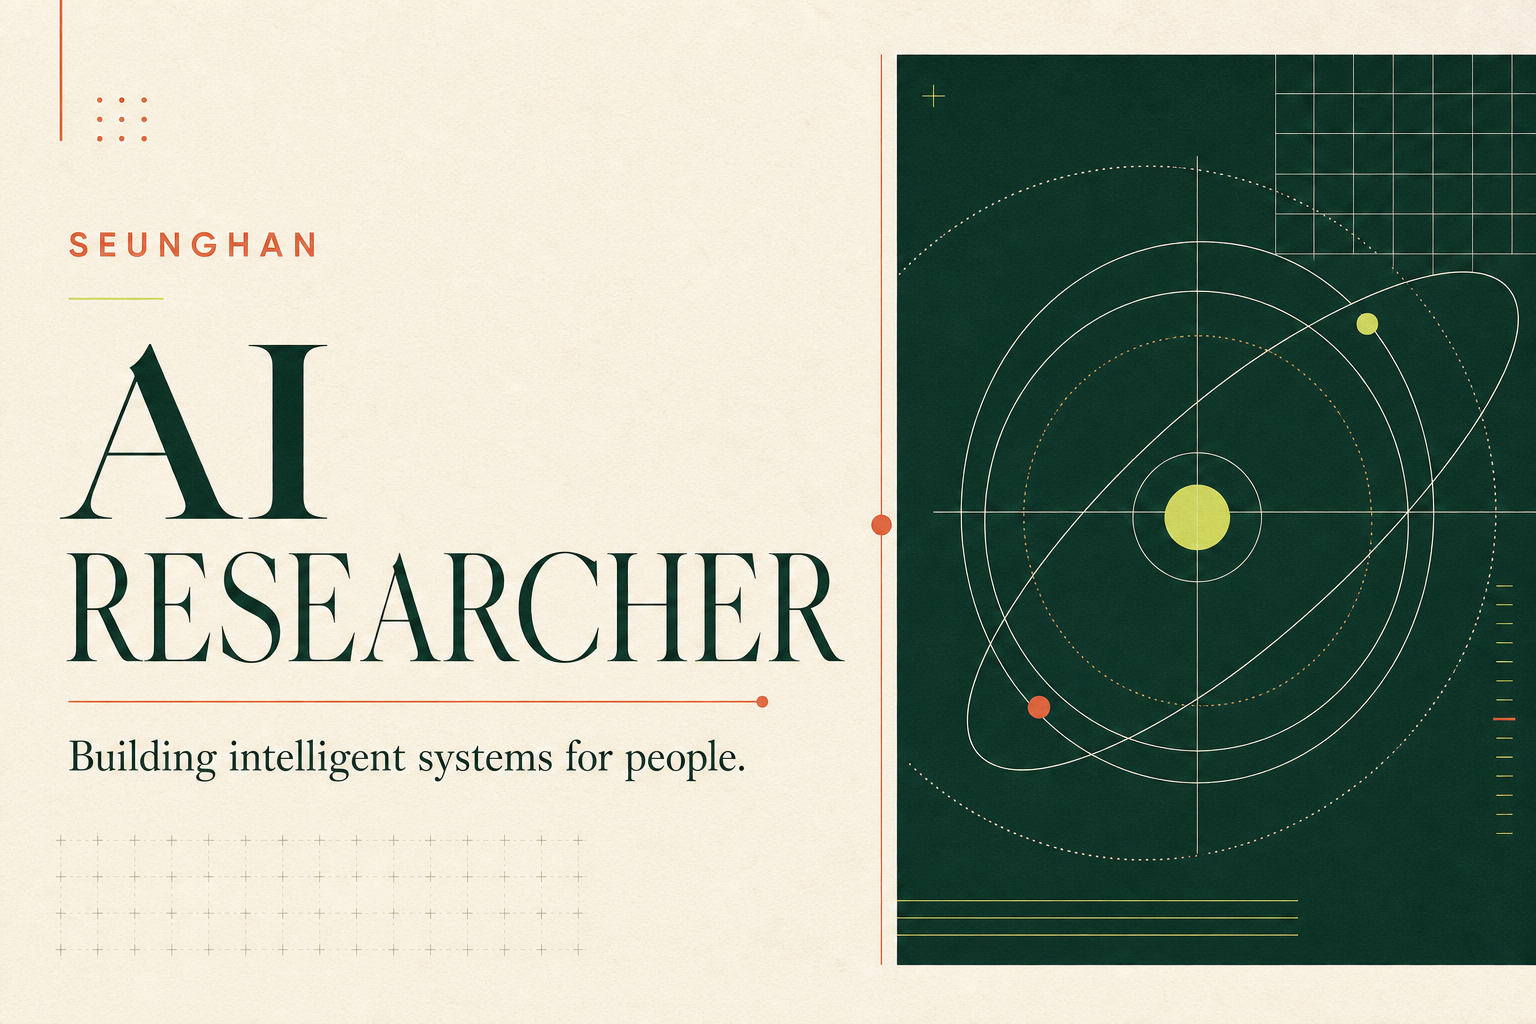
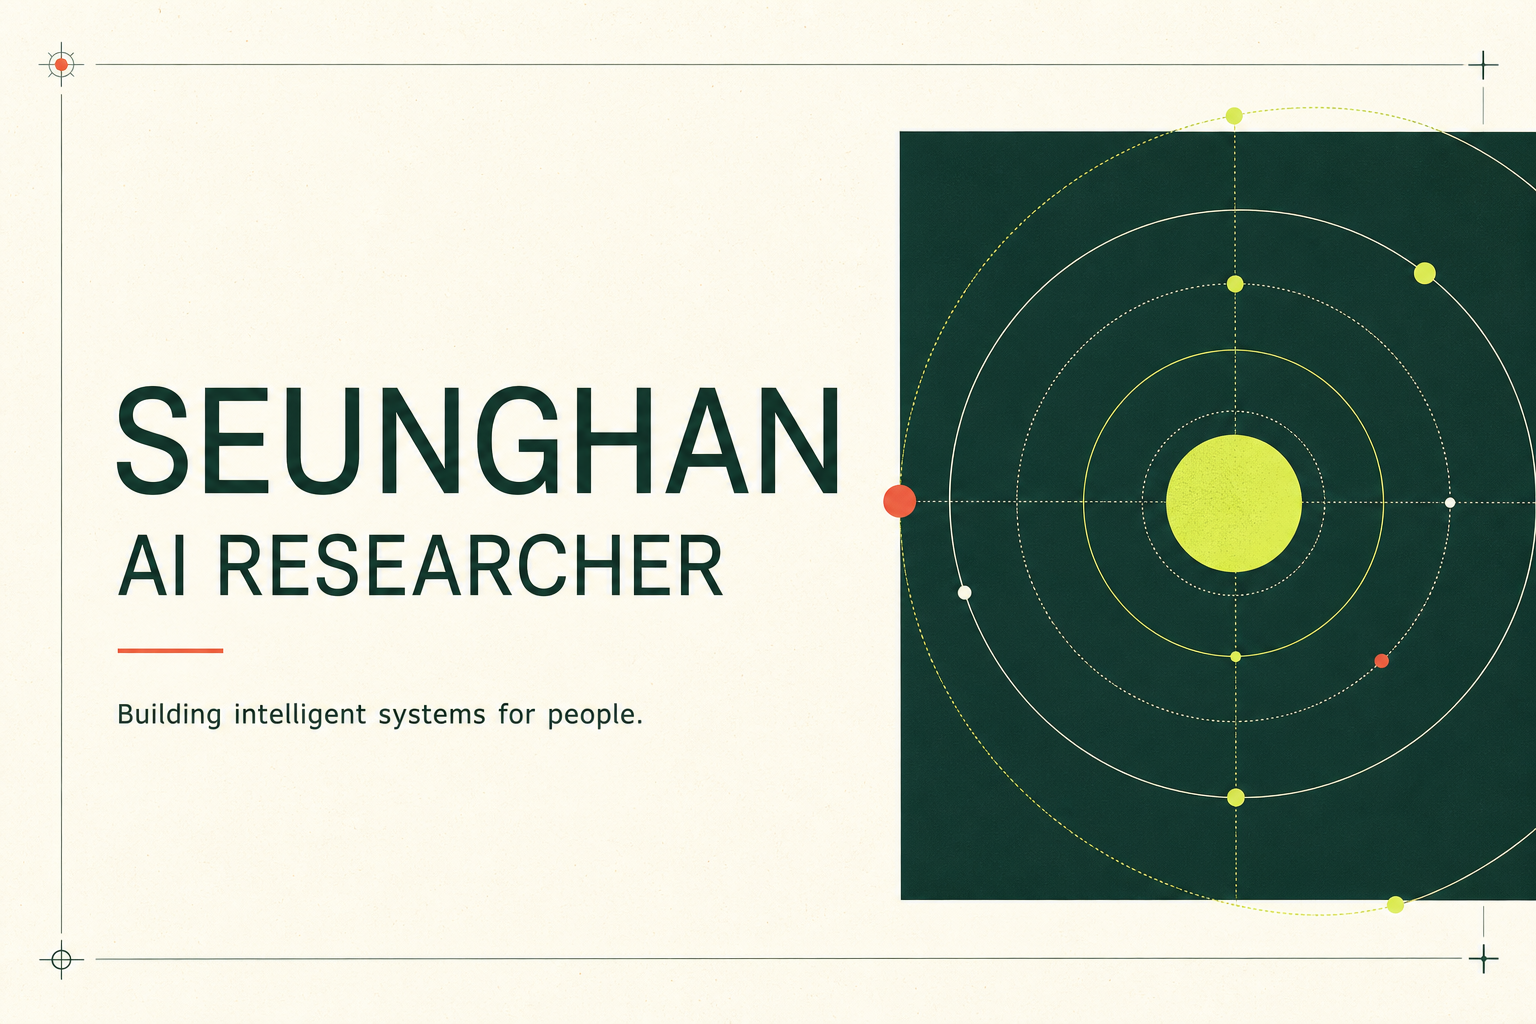
Refresh typography and English content

diff --git a/app/globals.css b/app/globals.css
@@ -1,11 +1,11 @@
 @import "tailwindcss";
 
 :root {
-  --ivory: #f3efe5;
-  --paper: #faf7ef;
+  --ivory: #fbf8ef;
+  --paper: #fffdf7;
   --ink: #18382f;
   --muted: #68766f;
-  --line: #cbc9bb;
+  --line: #d8d5c9;
   --accent: #d86545;
   --acid: #d9e86f;
 }
@@ -16,7 +16,7 @@ body {
   margin: 0;
   background: var(--ivory);
   color: var(--ink);
-  font-family: Arial, "Apple SD Gothic Neo", "Noto Sans KR", sans-serif;
+  font-family: "Gulim", "굴림", Arial, sans-serif;
   -webkit-font-smoothing: antialiased;
 }
 a { color: inherit; text-decoration: none; }
@@ -31,7 +31,7 @@ main { overflow: hidden; }
   justify-content: space-between;
   border-bottom: 1px solid var(--line);
 }
-.wordmark { font: 700 28px/1 Georgia, serif; letter-spacing: -2px; }
+.wordmark { font: 700 28px/1 "Gulim", "굴림", Arial, sans-serif; letter-spacing: -2px; }
 .wordmark span { color: var(--accent); }
 nav { display: flex; align-items: center; gap: 32px; font-size: 13px; font-weight: 700; letter-spacing: .04em; }
 nav a { transition: opacity .2s ease; }
@@ -53,7 +53,7 @@ nav a:hover { opacity: .55; }
 .eyebrow span { width: 8px; height: 8px; border-radius: 50%; background: var(--accent); }
 .hero h1, .section h2, footer h2 {
   margin: 0;
-  font-family: Georgia, "Times New Roman", serif;
+  font-family: "Gulim", "굴림", Arial, sans-serif;
   font-weight: 400;
   letter-spacing: -.055em;
 }
@@ -72,12 +72,12 @@ nav a:hover { opacity: .55; }
 .orbit { position: absolute; border: 1px solid rgba(243,239,229,.3); border-radius: 50%; transform: rotate(-18deg); }
 .orbit-one { width: 100%; height: 48%; }
 .orbit-two { width: 55%; height: 100%; transform: rotate(43deg); }
-.orbit-core { display: grid; place-items: center; width: 78px; height: 78px; border-radius: 50%; background: var(--acid); color: var(--ink); font: italic 700 28px Georgia, serif; box-shadow: 0 0 0 20px rgba(217,232,111,.07); }
+.orbit-core { display: grid; place-items: center; width: 78px; height: 78px; border-radius: 50%; background: var(--acid); color: var(--ink); font: 700 28px "Gulim", "굴림", Arial, sans-serif; box-shadow: 0 0 0 20px rgba(217,232,111,.07); }
 .status-pill { align-self: flex-start; border: 1px solid rgba(255,255,255,.25); padding: 9px 12px; border-radius: 99px; color: #d9dedb; font-size: 10px; letter-spacing: .08em; text-transform: uppercase; }
 .status-pill span { display: inline-block; width: 6px; height: 6px; margin-right: 7px; border-radius: 50%; background: var(--acid); }
 .panel-stats { display: grid; grid-template-columns: 1fr 1fr; border-top: 1px solid rgba(255,255,255,.2); padding-top: 20px; }
 .panel-stats div { display: flex; flex-direction: column; gap: 5px; }
-.panel-stats strong { font: 32px Georgia, serif; }
+.panel-stats strong { font: 32px "Gulim", "굴림", Arial, sans-serif; }
 .panel-stats span { color: #aeb9b4; font-size: 10px; text-transform: uppercase; letter-spacing: .1em; }
 
 .ticker { min-width: max-content; padding: 18px 0; background: var(--accent); color: var(--paper); display: flex; justify-content: center; align-items: center; gap: 26px; text-transform: uppercase; font-size: 10px; font-weight: 800; letter-spacing: .16em; }
@@ -97,12 +97,12 @@ nav a:hover { opacity: .55; }
 .demo-visual::after { width: 380px; height: 150px; transform: rotate(35deg); border-color: rgba(216,101,69,.75); }
 .demo-message { position: relative; z-index: 2; text-align: center; }
 .play-mark { width: 80px; height: 80px; margin: 0 auto 20px; border-radius: 50%; background: var(--acid); color: var(--ink); display: grid; place-items: center; padding-left: 4px; font-size: 20px; box-shadow: 0 0 0 12px rgba(217,232,111,.1); }
-.demo-message p { margin: 0 0 7px; font: 22px Georgia, serif; letter-spacing: .06em; }
+.demo-message p { margin: 0 0 7px; font: 22px "Gulim", "굴림", Arial, sans-serif; letter-spacing: .06em; }
 .demo-message small { color: #c2cec9; font-size: 11px; }
 .demo-duration { position: absolute; z-index: 2; right: 18px; bottom: 16px; font-size: 9px; letter-spacing: .12em; }
 .work-copy { padding: 52px 44px; display: flex; flex-direction: column; }
 .work-number { margin: 0 0 auto; color: var(--acid); font-size: 9px; font-weight: 700; letter-spacing: .16em; }
-.work-copy h3 { margin: 28px 0 22px; font: 400 clamp(38px, 3.2vw, 55px)/1.02 Georgia, serif; letter-spacing: -.04em; }
+.work-copy h3 { margin: 28px 0 22px; font: 400 clamp(38px, 3.2vw, 55px)/1.02 "Gulim", "굴림", Arial, sans-serif; letter-spacing: -.04em; }
 .work-copy > p:not(.work-number) { color: #b8c2bd; font-size: 13px; line-height: 1.8; word-break: keep-all; }
 .tag-row { display: flex; gap: 7px; margin: 20px 0 34px; }
 .tag-row span { border: 1px solid #597067; padding: 6px 9px; border-radius: 50px; color: #c9d2ce; font-size: 9px; }
@@ -110,9 +110,9 @@ nav a:hover { opacity: .55; }
 .project-grid { display: grid; grid-template-columns: 1fr 1fr 1fr; border: 1px solid var(--line); border-top: 0; }
 .project-grid article { min-height: 260px; padding: 28px; border-right: 1px solid var(--line); display: flex; flex-direction: column; }
 .project-grid article:last-child { border: 0; }
-.project-grid article > span { font: italic 21px Georgia, serif; color: var(--accent); }
+.project-grid article > span { font: 21px "Gulim", "굴림", Arial, sans-serif; color: var(--accent); }
 .project-grid article > p { margin: auto 0 10px; text-transform: uppercase; font-size: 9px; font-weight: 800; letter-spacing: .13em; color: var(--muted); }
-.project-grid h3 { margin: 0 0 12px; max-width: 300px; font: 400 28px/1.1 Georgia, serif; letter-spacing: -.03em; }
+.project-grid h3 { margin: 0 0 12px; max-width: 300px; font: 400 28px/1.1 "Gulim", "굴림", Arial, sans-serif; letter-spacing: -.03em; }
 .project-grid small { color: var(--muted); }
 .project-more { background: var(--paper); justify-content: space-between; }
 .project-more h3 { margin: auto 0 0; }
@@ -122,8 +122,8 @@ nav a:hover { opacity: .55; }
 .areas-layout > h2 { font-size: clamp(58px, 6vw, 92px); line-height: .95; }
 .area-list article { display: grid; grid-template-columns: 70px 1fr; gap: 30px; border-top: 1px solid var(--line); padding: 30px 0 36px; }
 .area-list article:last-child { border-bottom: 1px solid var(--line); }
-.area-list > article > span { color: var(--accent); font: italic 18px Georgia, serif; }
-.area-list h3 { margin: 0 0 10px; font: 400 31px Georgia, serif; }
+.area-list > article > span { color: var(--accent); font: 18px "Gulim", "굴림", Arial, sans-serif; }
+.area-list h3 { margin: 0 0 10px; font: 400 31px "Gulim", "굴림", Arial, sans-serif; }
 .area-list p { max-width: 520px; margin: 0; color: var(--muted); font-size: 13px; line-height: 1.75; word-break: keep-all; }
 
 .publications { border-top: 1px solid var(--line); }
@@ -131,13 +131,13 @@ nav a:hover { opacity: .55; }
 .publication-list { border-top: 1px solid var(--ink); }
 .publication-list article { display: grid; grid-template-columns: 90px 1fr 40px; gap: 26px; padding: 29px 12px; border-bottom: 1px solid var(--line); align-items: center; transition: background .2s ease, padding .2s ease; }
 .publication-list article:hover { background: var(--paper); padding-left: 22px; }
-.paper-year { font: italic 17px Georgia, serif; color: var(--accent); }
-.publication-list h3 { margin: 0 0 8px; font: 400 25px/1.2 Georgia, serif; }
+.paper-year { font: 17px "Gulim", "굴림", Arial, sans-serif; color: var(--accent); }
+.publication-list h3 { margin: 0 0 8px; font: 400 25px/1.2 "Gulim", "굴림", Arial, sans-serif; }
 .publication-list p { margin: 0; color: var(--muted); font-size: 11px; }
 .paper-arrow { font-size: 20px; }
 
 .split-section { display: grid; grid-template-columns: 1fr 1fr; gap: 8vw; border-top: 1px solid var(--line); }
-.news-column > h2, .study-column > h2 { margin: 0 0 44px; font-family: Georgia, serif; font-weight: 400; letter-spacing: -.04em; }
+.news-column > h2, .study-column > h2 { margin: 0 0 44px; font-family: "Gulim", "굴림", Arial, sans-serif; font-weight: 400; letter-spacing: -.04em; }
 .news-list { border-top: 1px solid var(--ink); }
 .news-list article { display: grid; grid-template-columns: 86px 1fr; gap: 20px; padding: 24px 0; border-bottom: 1px solid var(--line); }
 .news-list time { color: var(--accent); font-size: 11px; font-weight: 700; }
@@ -145,15 +145,15 @@ nav a:hover { opacity: .55; }
 .study-list { display: flex; flex-direction: column; gap: 10px; }
 .study-list a { background: var(--paper); padding: 22px; display: grid; grid-template-columns: 38px 1fr 24px; align-items: center; transition: transform .2s ease, background .2s ease; }
 .study-list a:hover { transform: translateX(5px); background: #fffdf7; }
-.study-list > a > span { color: var(--accent); font: italic 16px Georgia, serif; }
-.study-list h3 { margin: 0 0 5px; font: 400 21px Georgia, serif; }
+.study-list > a > span { color: var(--accent); font: 16px "Gulim", "굴림", Arial, sans-serif; }
+.study-list h3 { margin: 0 0 5px; font: 400 21px "Gulim", "굴림", Arial, sans-serif; }
 .study-list p { margin: 0; color: var(--muted); font-size: 10px; }
 .study-list b { font-weight: 400; }
 
 footer { background: var(--ink); color: var(--paper); padding: 100px max(32px, calc((100vw - 1380px) / 2)); }
 footer > div:first-child p { color: var(--acid); font-size: 11px; text-transform: uppercase; letter-spacing: .15em; }
 footer h2 { margin: 22px 0 60px; font-size: clamp(60px, 7vw, 104px); line-height: .94; }
-.footer-mail { border-bottom: 1px solid #62776f; padding: 20px 0; display: flex; justify-content: space-between; font: 24px Georgia, serif; }
+.footer-mail { border-bottom: 1px solid #62776f; padding: 20px 0; display: flex; justify-content: space-between; font: 24px "Gulim", "굴림", Arial, sans-serif; }
 .footer-bottom { margin-top: 80px; padding-top: 22px; border-top: 1px solid #4b635a; display: flex; justify-content: space-between; color: #aab7b2; font-size: 9px; letter-spacing: .1em; }
 
 @media (max-width: 900px) {

diff --git a/app/page.tsx b/app/page.tsx
@@ -32,10 +32,10 @@ export default function Home() {
   return (
     <main>
       <header className="site-header">
-        <a className="wordmark" href="#top" aria-label="홈으로 이동">
+        <a className="wordmark" href="#top" aria-label="Go to homepage">
           SH<span>.</span>
         </a>
-        <nav aria-label="주요 메뉴">
+        <nav aria-label="Primary navigation">
           <a href="#work">Research</a>
           <a href="#publications">Papers</a>
           <a href="#news">News</a>
@@ -51,16 +51,16 @@ export default function Home() {
             <em>for people.</em>
           </h1>
           <p className="hero-intro">
-            안녕하세요, 연구자 <strong>Seunghan</strong>입니다. 사람을 이해하고
-            신뢰할 수 있는 인공지능을 만드는 방법을 연구합니다.
+            Hi, I&apos;m <strong>Seunghan</strong>, a researcher exploring how to build
+            intelligent systems that understand people and earn their trust.
           </p>
           <div className="hero-actions">
-            <a className="primary-button" href="#work">연구 살펴보기 <span>↓</span></a>
-            <a className="text-link" href="#publications">논문 목록 보기 ↗</a>
+            <a className="primary-button" href="#work">Explore my research <span>↓</span></a>
+            <a className="text-link" href="#publications">View publications ↗</a>
           </div>
         </div>
 
-        <aside className="hero-panel" aria-label="연구자 요약">
+        <aside className="hero-panel" aria-label="Researcher profile summary">
           <div className="panel-orbit" aria-hidden="true">
             <span className="orbit orbit-one" />
             <span className="orbit orbit-two" />
@@ -74,7 +74,7 @@ export default function Home() {
         </aside>
       </section>
 
-      <section className="ticker" aria-label="연구 키워드">
+      <section className="ticker" aria-label="Research keywords">
         <span>Human-Centered AI</span><i>✦</i>
         <span>Multimodal Learning</span><i>✦</i>
         <span>Trustworthy Systems</span><i>✦</i>
@@ -85,20 +85,20 @@ export default function Home() {
         <div className="section-heading">
           <div>
             <p className="section-index">01 — Selected research</p>
-            <h2>연구 실적</h2>
+            <h2>Research Work</h2>
           </div>
-          <p>질문에서 시작해 실제로 작동하는 시스템까지. 최근 프로젝트와 핵심 결과를 소개합니다.</p>
+          <p>From an initial question to a working system, here are selected projects and the results behind them.</p>
         </div>
 
         <article className="featured-work">
           <div className="demo-frame">
             <div className="demo-topline"><span>PROJECT DEMO / 01</span><span>2026</span></div>
-            <div className="demo-visual" aria-label="데모 영상 자리 표시자">
+            <div className="demo-visual" aria-label="Demo video placeholder">
               <div className="demo-grid" />
               <div className="demo-message">
                 <span className="play-mark" aria-hidden="true">▶</span>
                 <p>DEMO VIDEO</p>
-                <small>실제 연구 영상을 이 영역에 연결할 수 있습니다</small>
+                <small>Your research demo video can be connected here</small>
               </div>
               <span className="demo-duration">01:42</span>
             </div>
@@ -107,11 +107,11 @@ export default function Home() {
             <p className="work-number">01 / FEATURED</p>
             <h3>Context-Aware<br />Research Assistant</h3>
             <p>
-              복잡한 연구 문헌을 이해하고, 연구자의 탐색 흐름에 맞춰 근거 기반 인사이트를
-              제안하는 인터랙티브 AI 시스템입니다.
+              An interactive AI system that understands complex research literature and
+              delivers evidence-based insights within a researcher&apos;s discovery workflow.
             </p>
             <div className="tag-row"><span>LLM</span><span>HCI</span><span>RAG</span></div>
-            <a href="mailto:hello@example.com?subject=Research%20Demo">프로젝트 문의하기 <span>↗</span></a>
+            <a href="mailto:hello@example.com?subject=Research%20Demo">Ask about this project <span>↗</span></a>
           </div>
         </article>
 
@@ -125,19 +125,19 @@ export default function Home() {
       <section className="section research-areas">
         <p className="section-index">02 — Research areas</p>
         <div className="areas-layout">
-          <h2>무엇을<br /><em>연구하나요?</em></h2>
+          <h2>What do I<br /><em>research?</em></h2>
           <div className="area-list">
-            <article><span>01</span><div><h3>Human-Centered AI</h3><p>사람의 판단을 대체하기보다 더 나은 선택을 돕는 지능형 시스템을 설계합니다.</p></div></article>
-            <article><span>02</span><div><h3>Multimodal Learning</h3><p>텍스트, 이미지, 행동 데이터를 함께 이해하는 효율적인 학습 방법을 탐구합니다.</p></div></article>
-            <article><span>03</span><div><h3>Trustworthy Systems</h3><p>불확실성을 설명하고 신뢰할 수 있는 AI 평가 프레임워크를 연구합니다.</p></div></article>
+            <article><span>01</span><div><h3>Human-Centered AI</h3><p>I design intelligent systems that support better human decisions instead of simply replacing them.</p></div></article>
+            <article><span>02</span><div><h3>Multimodal Learning</h3><p>I explore efficient learning methods that understand text, images, and behavioral data together.</p></div></article>
+            <article><span>03</span><div><h3>Trustworthy Systems</h3><p>I study evaluation frameworks for AI systems that communicate uncertainty and earn user trust.</p></div></article>
           </div>
         </div>
       </section>
 
       <section className="section publications" id="publications">
         <div className="section-heading publication-heading">
-          <div><p className="section-index">03 — Publications</p><h2>논문</h2></div>
-          <a href="mailto:hello@example.com?subject=CV%20Request">Full CV 요청하기 ↗</a>
+          <div><p className="section-index">03 — Publications</p><h2>Publications</h2></div>
+          <a href="mailto:hello@example.com?subject=CV%20Request">Request full CV ↗</a>
         </div>
         <div className="publication-list">
           {publications.map((paper) => (
@@ -160,7 +160,7 @@ export default function Home() {
         </div>
         <div className="study-column">
           <p className="section-index">05 — Study archive</p>
-          <h2>스터디 자료</h2>
+          <h2>Study Notes</h2>
           <div className="study-list">
             {studies.map(([number, title, meta]) => (
               <a href="mailto:hello@example.com?subject=Study%20Material" key={number}>
@@ -173,7 +173,7 @@ export default function Home() {
 
       <footer>
         <div>
-          <p>새로운 연구와 협업을 기다립니다.</p>
+          <p>Open to new research and collaboration.</p>
           <h2>Let&apos;s make something<br /><em>meaningful.</em></h2>
         </div>
         <a className="footer-mail" href="mailto:hello@example.com">hello@example.com <span>↗</span></a>

diff --git a/app/layout.tsx b/app/layout.tsx
@@ -21,7 +21,7 @@ export async function generateMetadata(): Promise<Metadata> {
 
 export default function RootLayout({ children }: Readonly<{ children: React.ReactNode }>) {
   return (
-    <html lang="ko">
+    <html lang="en">
       <body>{children}</body>
     </html>
   );
